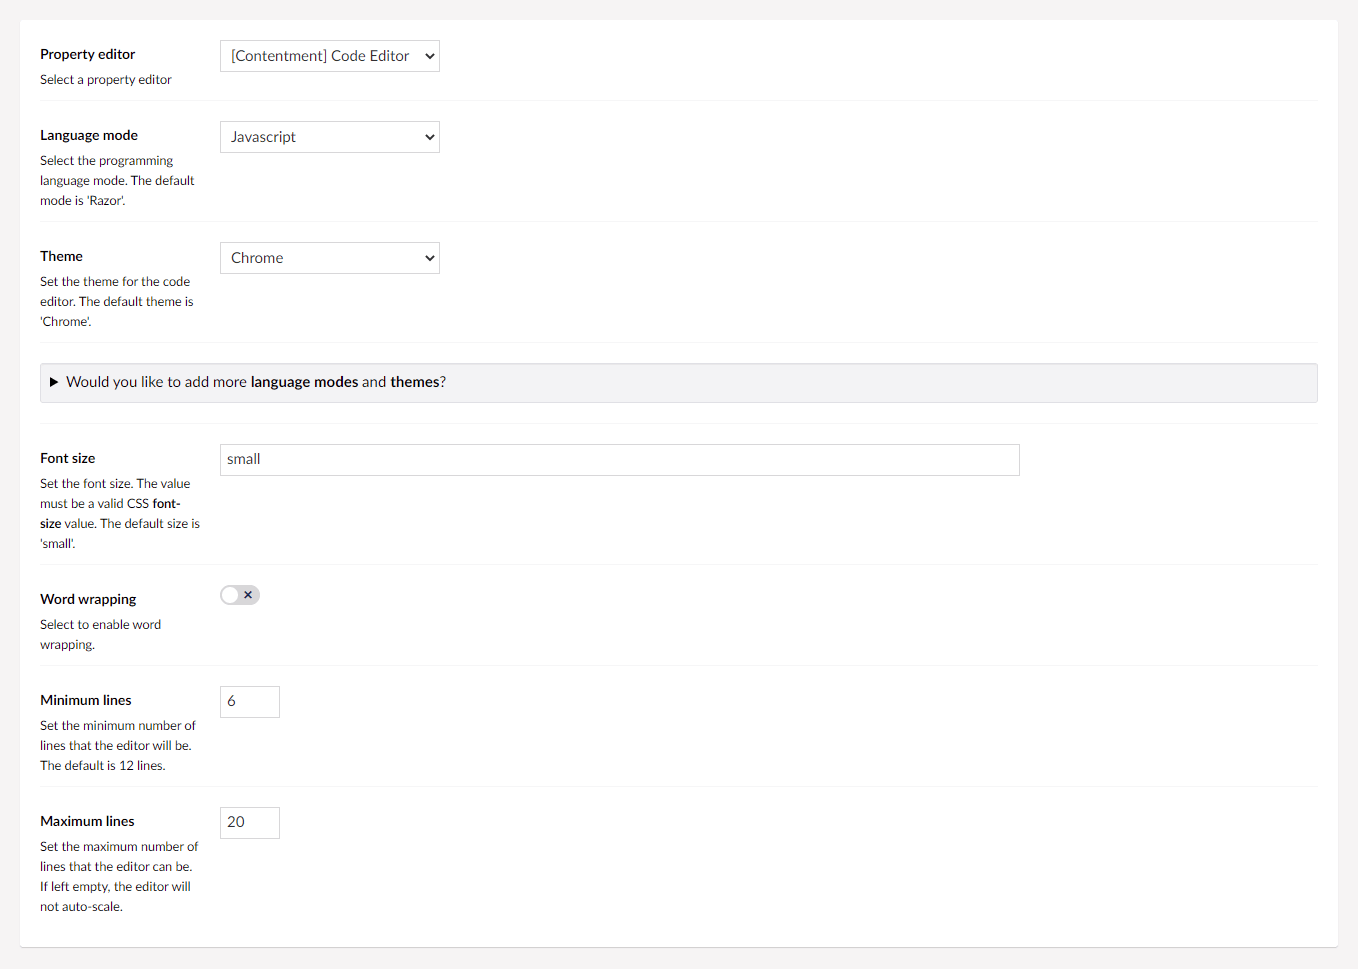
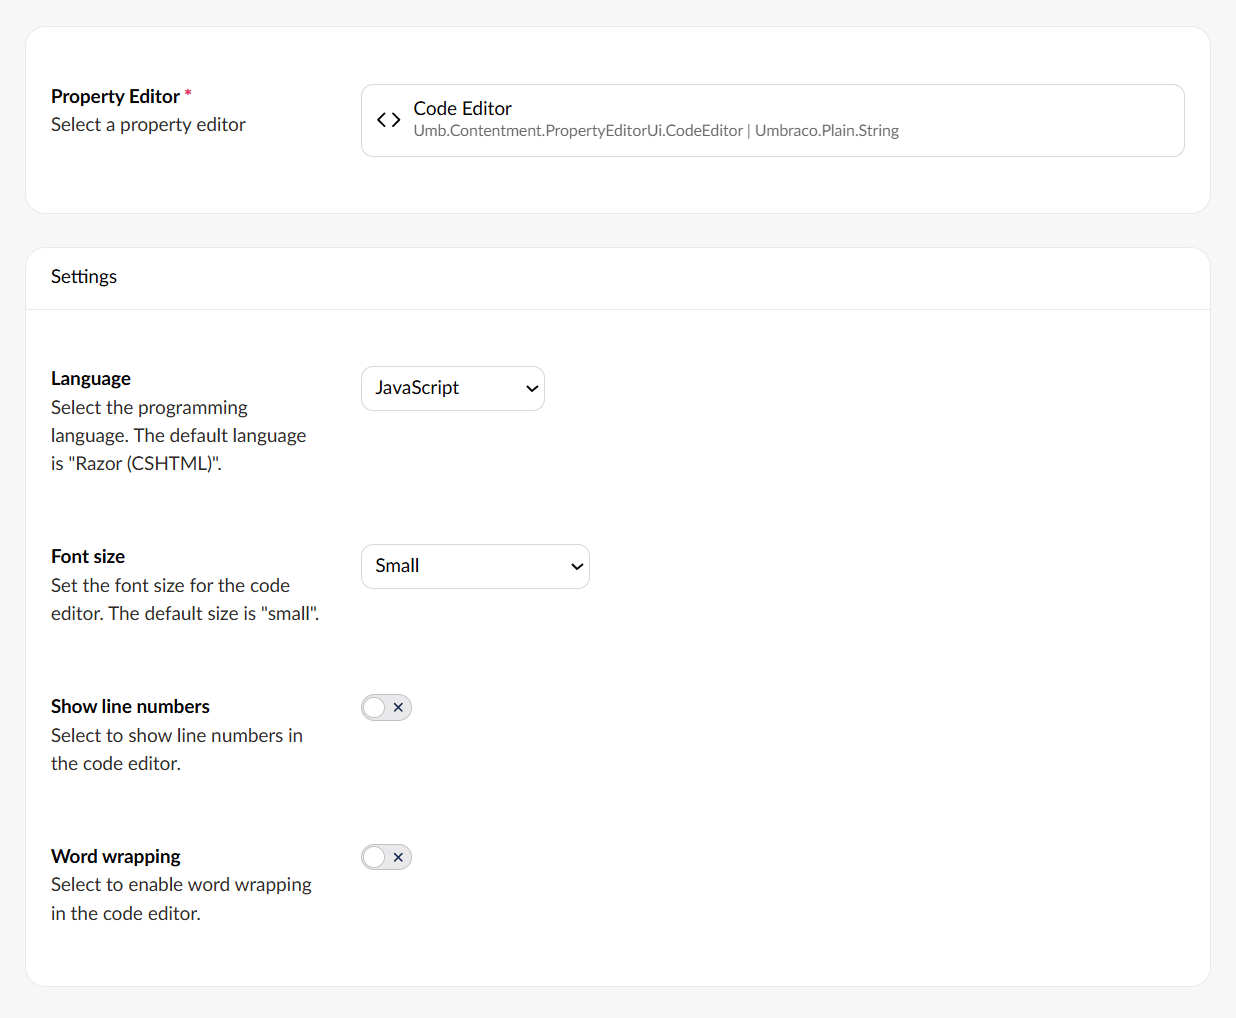
:notebook: Updated README
+ Code Editor documentation

diff --git a/docs/editors/code-editor.md b/docs/editors/code-editor.md
@@ -4,7 +4,7 @@
 
 ### Code Editor
 
-Code Editor is a property-editor that is used to enter code snippets (as content), makes use of [AWS Cloud 9's Ace editor](https://ace.c9.io/) library that is distributed with Umbraco.
+Code Editor is a property-editor that is used to enter code snippets (as content), makes use of the [Prism Code Editor](https://github.com/jonpyt/prism-code-editor) library.
 
 This is useful if you would like to embed a snippet of HTML or JavaScript on a content page, or have a full HTML property-editor.
 
@@ -17,20 +17,9 @@ In your new Data Type, selected the "[Contentment] Code Editor" option. You will
 
 The first field is **Language mode**, this is used to select the programming language mode, for code syntax highlighting. The default mode is "Razor", meaning that you can use a combination of HTML, CSS, JavaScript and Razor syntax.
 
-The next field is **Theme**, which is used to set the visual appearance of the code editor. The default _(and only)_ theme is "Chrome".
-
-> **Please note,** by default, Umbraco ships a streamlined set of programming language modes and themes.
-> 
-> If you would like to add more modes and themes, you can do this by [downloading the latest pre-packaged version of the Ace editor](https://github.com/ajaxorg/ace-builds/releases) and copy any of the `mode-*` or `theme-*` files from the `src-min-noconflict` folder over to the `~/umbraco/lib/ace-builds/src-min-noconflict/` folder in you Umbraco installation.
-> 
-> Once you've done this, you can reload the Data Type screen, and the new programming language modes and themes will appear in the dropdown options for the fields above.
-
-
 The **Font size** field is used to set the font size, the value must be a [valid CSS font-size value](https://developer.mozilla.org/en-US/docs/Web/CSS/font-size), e.g. `14px`, `80%`, `0.8em`, etc. The default size is "`small`".
 
 The **Word wrapping** option can enable the code editor to wrap the text around to the following line.
-
-The next two fields, **Minimum lines** and **Maximum lines**, are used to set the default height size of the code editor. If you would like the height to auto-scale forever, then set the maximum number to something ridiculously high. If left empty, the height of the code editor will remain at a fixed height and not auto-scale.
 
 
 ### How to use the editor?

diff --git a/.github/ROADMAP.md b/.github/ROADMAP.md
@@ -158,18 +158,19 @@ Property Editors are:
 
 ### [v6.2](https://github.com/leekelleher/umbraco-contentment/releases/tag/6.2.0)
 
-- A non-breaking-change minor release. Reduces Umbraco dependency to 18, _(consumers will need to upgraded to Contentment 7)._
+- A non-breaking-change minor release. Reduces Umbraco dependency to below 18, _(consumers will need to upgraded to Contentment 7)._
 
 
 ## v7 _(June 2026)_
 
 - _Adds support for Umbraco 18 (.NET 10)._
 - _Removes support for Umbraco 16 (.NET 9) and 17._
+- [Input List](https://github.com/leekelleher/umbraco-contentment/pull/513)
+- Refactored [Code Editor](), _(to use lightweight [Prism Code Editor](https://github.com/jonpyt/prism-code-editor))._
 
 ### v7.1
 
-- _Explore the new [`valueSummary` extension](https://github.com/umbraco/Umbraco-CMS/pull/22481)_
-- [Input List](https://github.com/leekelleher/umbraco-contentment/pull/513)
+- _Explore the new [`valueSummary` extension](https://github.com/umbraco/Umbraco-CMS/pull/22481) for property-editors._
 
 
 ## v8 _(December 2026)_

diff --git a/.github/README.md b/.github/README.md
@@ -26,7 +26,7 @@ Let's take a look inside...
 ##### Property Editors
 
 - [Bytes](../docs/editors/bytes.md) - a read-only label to display file sizes in relative bytes.
-- [Code Editor](../docs/editors/code-editor.md) - a code snippet editor, _(using the Monaco library that is bundled with Umbraco)._
+- [Code Editor](../docs/editors/code-editor.md) - a code snippet editor.
 - [Content Blocks](../docs/editors/content-blocks.md) - a block editor, configurable using element types.
 - [Data List](../docs/editors/data-list.md) - an editor that combines a custom data source with a custom list editor.
 - [Data Picker](../docs/editors/data-picker.md) - advanced picker editor to query a custom data source.

diff --git a/docs/README.md b/docs/README.md
@@ -13,7 +13,7 @@
 Here is the documentation for the Contentment property-editors...
 
 - [Bytes](../docs/editors/bytes.md) - a read-only label to display file sizes in relative bytes.
-- [Code Editor](../docs/editors/code-editor.md) - a code snippet editor, _(using the ACE library that is bundled with Umbraco)._
+- [Code Editor](../docs/editors/code-editor.md) - a code snippet editor.
 - [Content Blocks](../docs/editors/content-blocks.md) - a block editor, configurable using element types.
 - [Data List](../docs/editors/data-list.md) - an editor that combines a custom data source with a custom list editor.
 - [Data Picker](../docs/editors/data-picker.md) - advanced picker editor to query a custom data source.

diff --git a/umbraco-marketplace-readme.md b/umbraco-marketplace-readme.md
@@ -2,7 +2,7 @@
 The following property editors are available...
 
 - [Bytes](https://github.com/leekelleher/umbraco-contentment/blob/contrib/docs/editors/bytes.md) - a read-only label to display file sizes in relative bytes.
-- [Code Editor](https://github.com/leekelleher/umbraco-contentment/blob/contrib/docs/editors/code-editor.md) - a code snippet editor, _(using the ACE library that is bundled with Umbraco)._
+- [Code Editor](https://github.com/leekelleher/umbraco-contentment/blob/contrib/docs/editors/code-editor.md) - a code snippet editor.
 - [Content Blocks](https://github.com/leekelleher/umbraco-contentment/blob/contrib/docs/editors/content-blocks.md) - a block editor, configurable using element types.
 - [Data List](https://github.com/leekelleher/umbraco-contentment/blob/contrib/docs/editors/data-list.md) - an editor that combines a custom data source with a custom list editor.
 - [Data Picker](https://github.com/leekelleher/umbraco-contentment/blob/contrib/docs/editors/data-picker.md) - advanced picker editor to query a custom data source.